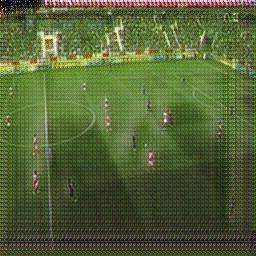
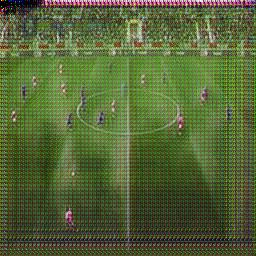
add result

diff --git a/predict_fifa.py b/predict_fifa.py
@@ -47,11 +47,11 @@ def show_real_and_fake(realA, fakeA, realB, fakeB, epoch, id):
 
     plt.subplots_adjust(wspace =0.3, hspace =0.3)
 
-    plt.savefig("imgs/fifa/pred_cycleGAN_epoch%u_%u.png"%( epoch, id ))
+    plt.savefig("imgs/fifa/train_cycleGAN_epoch%u_%u.png"%( epoch, id ))
     # plt.show()
 
 
-def predict(args):
+def predict(args, epoch):
     utils.set_seed_everywhere(args.seed)
 
     if args.wandb:
@@ -72,8 +72,8 @@ def predict(args):
 
     # use train set
 
-    pathA = 'data/fifa2real/test/A/2701.jpg'
-    pathB = 'data/fifa2real/test/B/602.jpg'
+    pathA = 'data/fifa2real/train/A/1.jpg'
+    pathB = 'data/fifa2real/train/B/3.jpg'
     real_image_A = Image.open(pathA) # RGB
     real_image_B = Image.open(pathB)
 
@@ -95,8 +95,9 @@ def predict(args):
     netD_B = Discriminator().to(device)
 
     # load weight
-    epoch = args.predict_epoch
-    epoch = 130
+
+
+    print('epoch is:', epoch)
     args.log_dir = 'logs/cycleGAN_fifa'
     utils.load_model_with_name(netG_A2B, 'A2B', epoch, args)
     utils.load_model_with_name(netG_B2A, 'B2A', epoch, args)
@@ -107,8 +108,8 @@ def predict(args):
 
     id = 1
     with torch.no_grad():
-        fake_image_B = netG_A2B(real_image_A)
-        fake_image_A = netG_B2A(real_image_B)
+        fake_image_B = 0.5*( netG_A2B(real_image_A).data + 1.0 )
+        fake_image_A = 0.5 *( netG_B2A(real_image_B).data + 1.0 )
 
         # vutils.save_image(fake_image_A, 'test.jpg')
         vutils.save_image(fake_image_A, 'imgs/fifa/test1.jpg', normalize=True)
@@ -130,4 +131,5 @@ def predict(args):
 if __name__=='__main__':
     args = parse_args()
     print(args)
-    predict(args)
+    for e in [0, 100, 200]:
+        predict(args, e)
